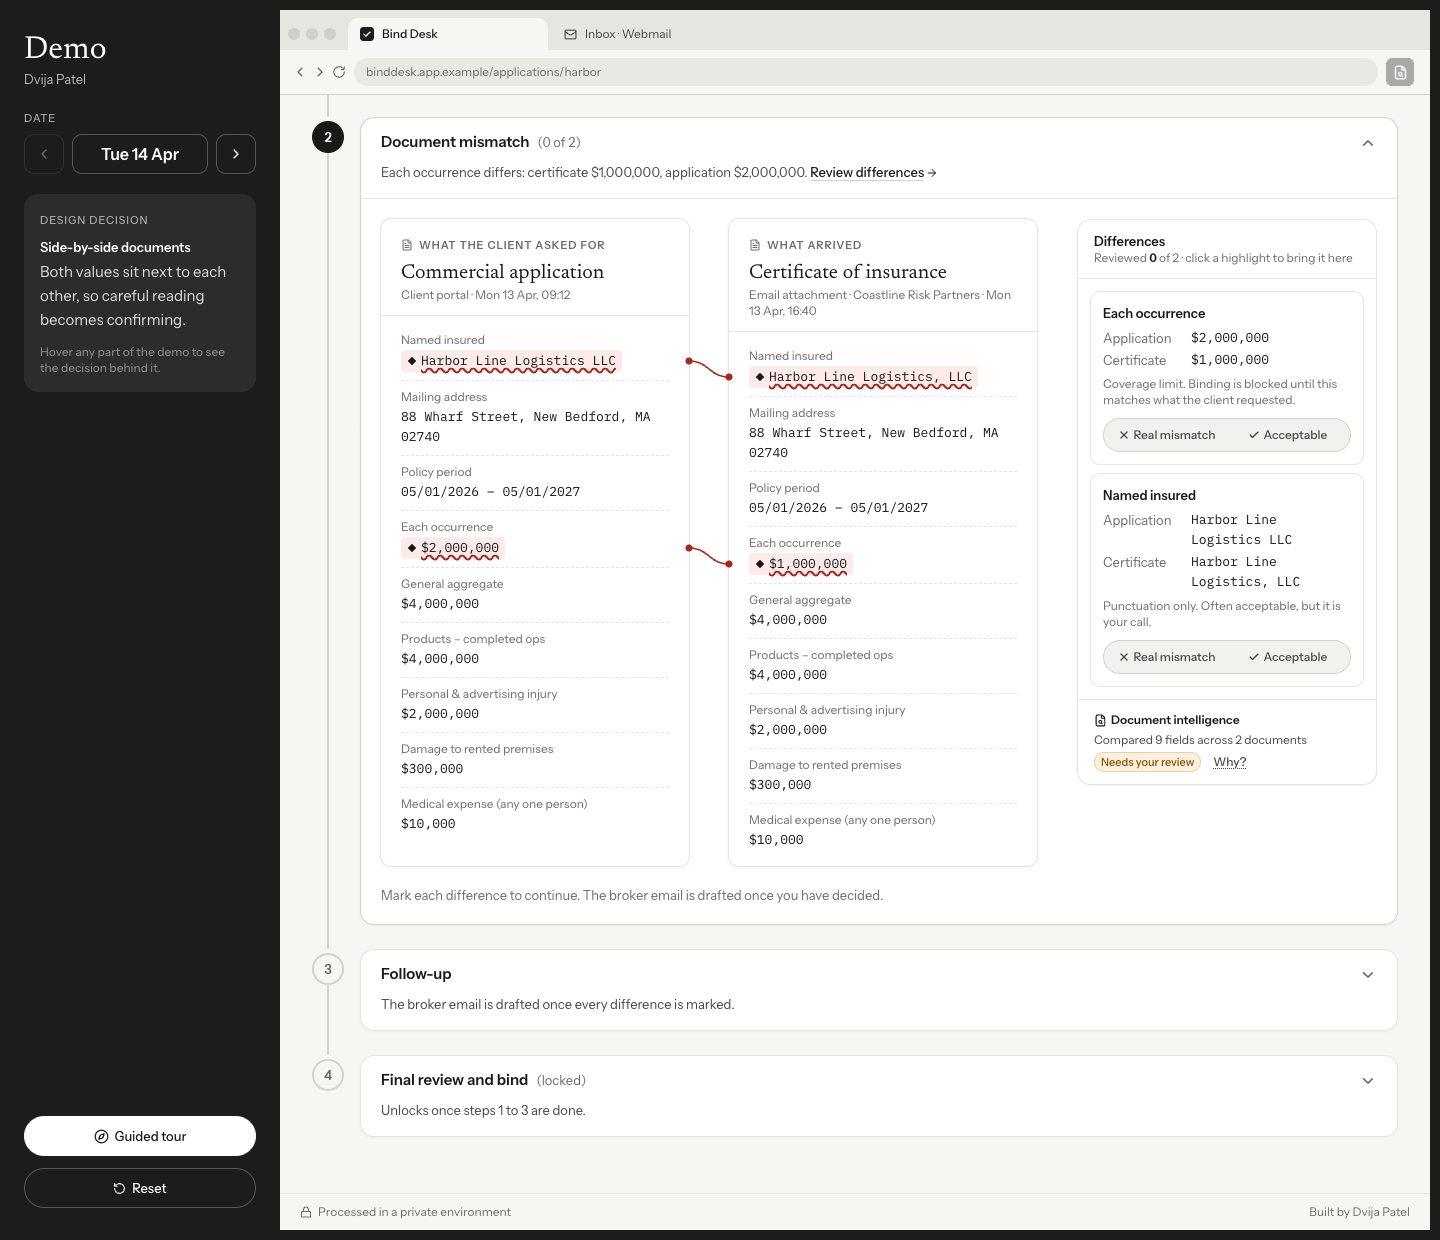
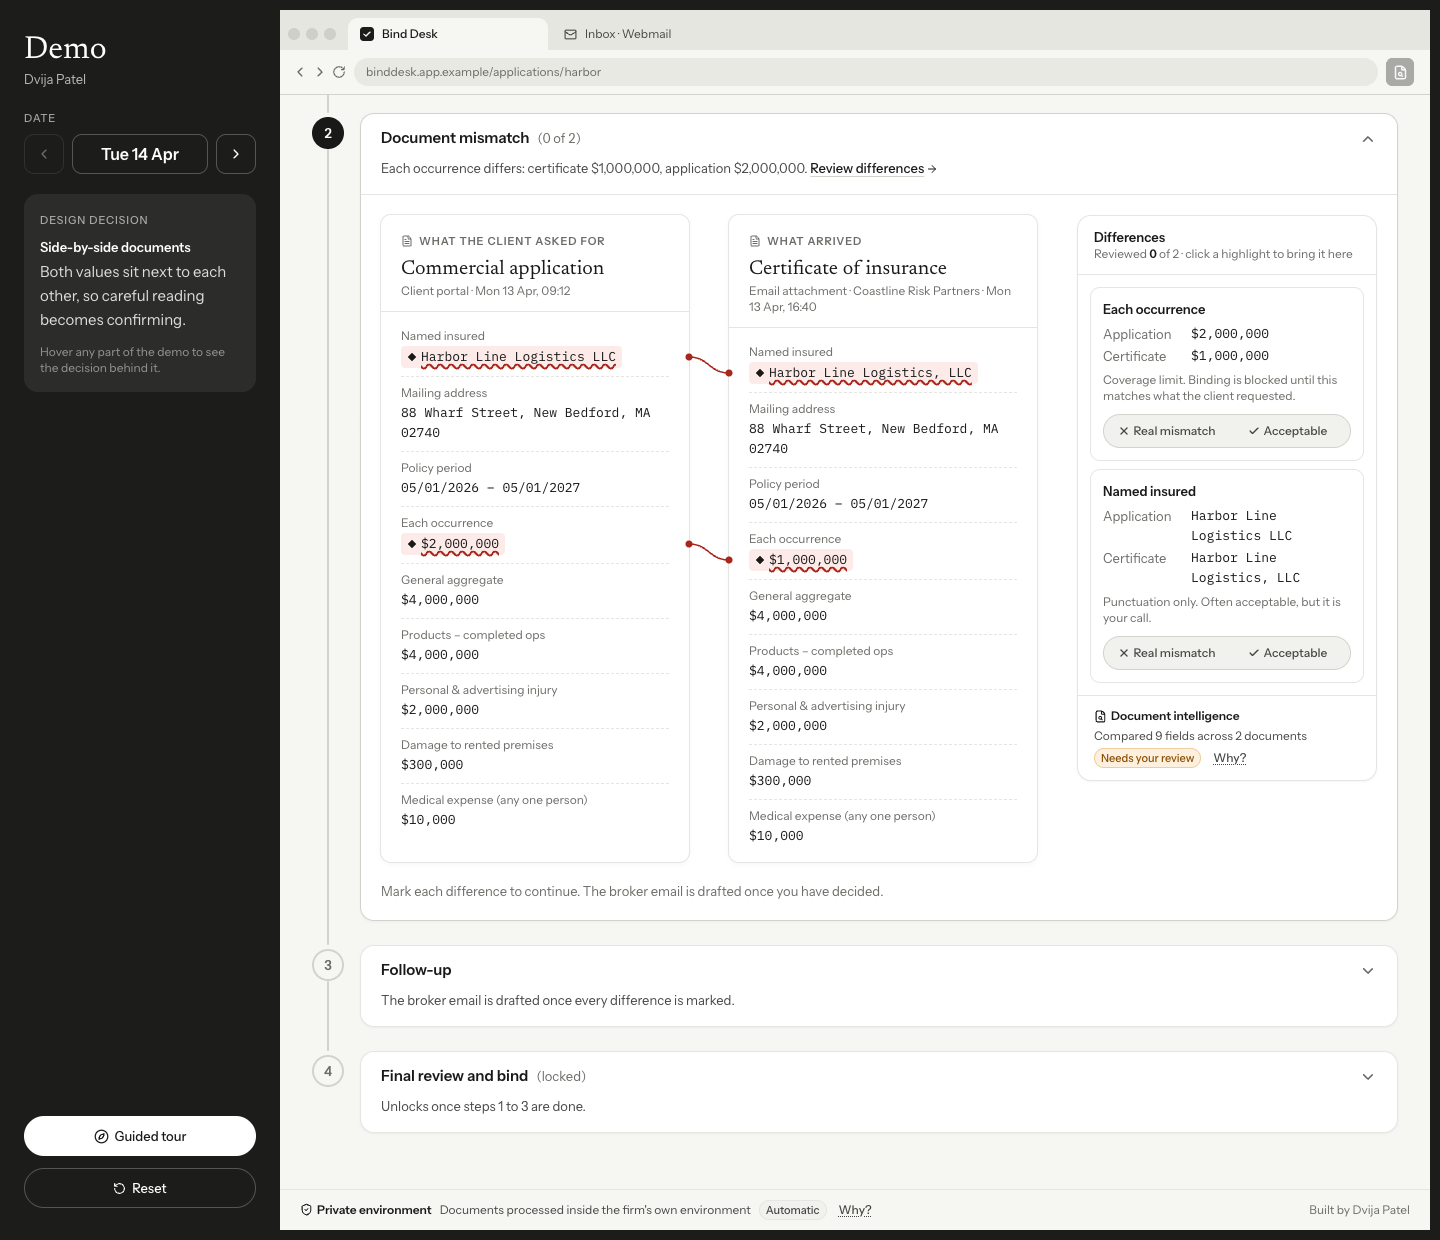
Capture card selects on click, compact capture tags, private environment tag, sent-email record

diff --git a/src/proto/screens/Capture.tsx b/src/proto/screens/Capture.tsx
@@ -175,18 +175,9 @@ function CapturePanel({ onClose }: { onClose: () => void }) {
             <p className="text-[11px] font-semibold uppercase tracking-[0.08em] text-ink-3">Bind Desk · Capture</p>
             <h2 className="mt-0.5 font-display text-[22px] leading-7">{docs.length} documents found in this inbox</h2>
             <p className="mt-1 text-sm text-ink-2">Check each match. Click a document to preview it or change its application.</p>
-            <div data-decision="ai-tag" className="mt-3">
-              <AiTag
-                variant="Document intelligence"
-                did="Named each document type and matched it to a submission"
-                review={uncertainOpen ? 'Needs your review' : 'Confirmed by you'}
-                why={{
-                  evidence: docs.map((d) => `${d.file} → ${d.type}`),
-                  confidence: docs.map((d) => `${Math.round(d.confidence * 100)}%`).join(' · '),
-                  approval: 'Matches under 80% confidence wait for you to confirm or change the application.',
-                  audit: docs.map((d) => `${d.file}: ${d.state}`),
-                }}
-              />
+            <div data-decision="ai-tag" className="mt-3 flex flex-col gap-1">
+              <AiTag variant="Document intelligence" did="Named each document type and matched it to a submission" compact />
+              <AiTag variant="Integration" did="Reads attachments in the open web inbox" compact />
             </div>
           </div>
           <button onClick={onClose} aria-label="Close panel" className="grid h-8 w-8 place-items-center rounded-full hover:bg-muted">
@@ -214,7 +205,7 @@ function CapturePanel({ onClose }: { onClose: () => void }) {
               Open Home <ArrowRight aria-hidden size={14} />
             </Button>
           </div>
-          <ProtoFooter />
+          <ProtoFooter compact />
         </div>
       </aside>
     </>
@@ -275,13 +266,17 @@ function DocRow({
     <li
       data-doc-row={doc.id}
       data-decision={uncertain ? 'low-confidence' : undefined}
-      className={`relative rounded-card border px-4 py-3.5 transition-colors ${previewing ? 'border-ink ring-1 ring-ink' : uncertain && shown ? 'border-warning-line' : 'border-line hover:border-line-strong'} ${uncertain && shown ? 'bg-[#fffaf2]' : 'bg-surface'}`}
+      onClick={(e) => {
+        if ((e.target as HTMLElement).closest('[data-picker]')) return
+        onPreview()
+      }}
+      className={`relative cursor-pointer rounded-card border px-4 py-3.5 transition-colors ${previewing ? 'border-ink ring-1 ring-ink' : uncertain && shown ? 'border-warning-line' : 'border-line hover:border-line-strong'} ${uncertain && shown ? 'bg-[#fffaf2]' : 'bg-surface'}`}
     >
       <span ref={ring} aria-hidden className="pointer-events-none absolute -inset-[3px] rounded-[12px] border-2 border-ink opacity-0" />
       <div className="flex items-start gap-3">
         <FileText aria-hidden size={18} className="mt-0.5 shrink-0 text-ink-3" />
         <div className="min-w-0 flex-1">
-          <button onClick={onPreview} aria-pressed={previewing} className="block w-full text-left" title="Preview this document">
+          <button aria-pressed={previewing} className="block w-full text-left" title="Preview this document">
             <span className="block truncate font-mono text-[13px] text-ink underline decoration-transparent underline-offset-2 hover:decoration-ink-3">{doc.file}</span>
             <span className="mt-0.5 block text-xs text-ink-3">
               <span className="font-medium text-ink-2">{doc.type}</span> · {doc.source} · {doc.from}
@@ -313,15 +308,12 @@ function DocRow({
             )}
           </div>
           {shown && !expanded && uncertain && (
-            <button
-              onClick={() => setPicking(true)}
-              className="mt-3 inline-flex h-6 items-center rounded-full border border-warning-line bg-warning-bg px-2.5 text-xs font-medium text-warning transition-colors hover:border-warning"
-            >
+            <button className="mt-3 inline-flex h-6 items-center rounded-full border border-warning-line bg-warning-bg px-2.5 text-xs font-medium text-warning transition-colors hover:border-warning">
               Needs review
             </button>
           )}
           {shown && expanded && (
-            <div className="mt-3 border-t border-line pt-3">
+            <div data-picker className="mt-3 cursor-default border-t border-line pt-3">
               <p className="text-xs text-ink-2">
                 {uncertain
                   ? `Only ${Math.round(doc.confidence * 100)}% sure. "HL" could be Harborview Freight Co. or Harbor Line Logistics.`

diff --git a/src/proto/screens/AppDetail.tsx b/src/proto/screens/AppDetail.tsx
@@ -918,6 +918,42 @@ function ContactChooser({ sub }: { sub: Submission }) {
   )
 }
 
+/** What already went to the broker, with the agent tag now confirmed. */
+function SentRecord({ sub, text }: { sub: Submission; text: string }) {
+  const [open, setOpen] = useState(false)
+  const subject = text.split('\n').find((l) => l.startsWith('Subject: '))?.replace('Subject: ', '')
+  const isMismatch = sub.askedFor?.startsWith('confirmation')
+  return (
+    <div className="rounded-card border border-line bg-surface">
+      <div className="flex flex-wrap items-start justify-between gap-3 px-4 py-3">
+        <div className="min-w-0">
+          <p className="flex items-center gap-2 text-sm font-semibold">
+            <Mail aria-hidden size={14} /> Email sent {fmtDay(sub.waitingSince ?? 0)}
+          </p>
+          <p className="mt-0.5 truncate text-sm text-ink-2">{subject}</p>
+        </div>
+        <button onClick={() => setOpen((o) => !o)} aria-expanded={open} className="inline-flex items-center gap-1 text-sm font-medium underline decoration-line-strong underline-offset-[3px] hover:decoration-ink">
+          {open ? 'Hide email' : 'Show email'}
+          <ChevronDown aria-hidden size={14} className={`transition-transform duration-200 ${open ? 'rotate-180' : ''}`} />
+        </button>
+      </div>
+      {open && <pre className="mx-4 mb-3 whitespace-pre-wrap rounded-card bg-canvas p-3 font-sans text-sm leading-6 text-ink-2">{text}</pre>}
+      <div data-decision="ai-tag" className="border-t border-line px-4 py-2.5">
+        <AiTag
+          variant="Agent"
+          did={isMismatch ? 'Drafted the broker email from your decisions' : 'Drafted the request for the missing document'}
+          review="Confirmed by you"
+          why={{
+            evidence: [`Asked for: ${sub.askedFor}`],
+            approval: 'You reviewed the draft and pressed Send.',
+            audit: ['Draft generated', `Sent by you ${fmtDay(sub.waitingSince ?? 0)}`],
+          }}
+        />
+      </div>
+    </div>
+  )
+}
+
 function CallPanel({ sub, onLog }: { sub: Submission; onLog: () => void }) {
   return (
     <div className="flex flex-wrap items-center justify-between gap-4 rounded-panel border border-line bg-surface px-5 py-4">
@@ -1042,6 +1078,7 @@ function FollowUpSection({ sub }: { sub: Submission }) {
               <span className="font-semibold text-ink">You asked for</span> {sub.askedFor}.
             </p>
           )}
+          {drafts[sub.id] && <SentRecord sub={sub} text={drafts[sub.id]} />}
         </>
       )}
 

diff --git a/src/proto/components/AiTag.tsx b/src/proto/components/AiTag.tsx
@@ -29,7 +29,24 @@ export interface WhyInfo {
  * The reusable AI capability tag. Only placed where AI changed what the user
  * sees; anything affecting a decision carries a review state.
  */
-export function AiTag({ variant, did, review, why, align = 'left' }: { variant: AiVariant; did: string; review: ReviewState; why: WhyInfo; align?: 'left' | 'right' }) {
+export function AiTag({
+  variant,
+  did,
+  review,
+  why,
+  align = 'left',
+  placement = 'down',
+  compact = false,
+}: {
+  variant: AiVariant
+  did: string
+  review?: ReviewState
+  why?: WhyInfo
+  align?: 'left' | 'right'
+  placement?: 'down' | 'up'
+  /** Name and one line only: no review state, no "Why?" */
+  compact?: boolean
+}) {
   const [open, setOpen] = useState(false)
   const id = useId()
   const wrap = useRef<HTMLDivElement>(null)
@@ -73,9 +90,12 @@ export function AiTag({ variant, did, review, why, align = 'left' }: { variant: 
         {variant}
       </span>
       <span className="text-ink-2">{did}</span>
-      <span ref={pillRef} className={`inline-flex h-5 items-center rounded-full border px-1.5 text-[11px] font-medium ${REVIEW_STYLE[review]}`}>
-        {review}
-      </span>
+      {!compact && review && (
+        <span ref={pillRef} className={`inline-flex h-5 items-center rounded-full border px-1.5 text-[11px] font-medium ${REVIEW_STYLE[review]}`}>
+          {review}
+        </span>
+      )}
+      {!compact && why && (
       <button
         ref={btn}
         type="button"
@@ -86,13 +106,14 @@ export function AiTag({ variant, did, review, why, align = 'left' }: { variant: 
       >
         Why?
       </button>
-      {open && (
+      )}
+      {open && why && (
         <div
           ref={pop}
           id={id}
           role="dialog"
           aria-label={`Why: ${variant}`}
-          className={`absolute top-full z-40 mt-2 w-80 rounded-card border border-line bg-surface p-3 text-xs shadow-pop ${align === 'right' ? 'right-0' : 'left-0'}`}
+          className={`absolute z-40 w-80 ${placement === 'up' ? 'bottom-full mb-2' : 'top-full mt-2'} rounded-card border border-line bg-surface p-3 text-xs shadow-pop ${align === 'right' ? 'right-0' : 'left-0'}`}
         >
           <dl className="space-y-2.5">
             <div>

diff --git a/src/proto/components/ui.tsx b/src/proto/components/ui.tsx
@@ -1,5 +1,6 @@
 import { forwardRef, useEffect, useLayoutEffect, useRef, useState, type ButtonHTMLAttributes, type ReactNode } from 'react'
-import { ChevronDown, Lock } from 'lucide-react'
+import { ChevronDown } from 'lucide-react'
+import { AiTag } from './AiTag'
 import { tweenNumber } from '../motion'
 
 type Variant = 'primary' | 'secondary' | 'ghost' | 'quiet'
@@ -76,12 +77,22 @@ export function WhyDesign({ title = 'Why this design', evidence, children }: { t
   )
 }
 
-export function ProtoFooter() {
+export function ProtoFooter({ compact = false }: { compact?: boolean }) {
   return (
     <footer className="flex flex-wrap items-center justify-between gap-2 border-t border-line px-5 py-2.5 text-xs text-ink-3">
-      <span className="inline-flex items-center gap-1.5">
-        <Lock aria-hidden size={12} />
-        Processed in a private environment
+      <span data-decision="ai-tag">
+        <AiTag
+          variant="Private environment"
+          did={compact ? 'Processed inside the firm' : "Documents processed inside the firm's own environment"}
+          compact={compact}
+          review="Automatic"
+          placement="up"
+          why={{
+            evidence: ['Deployment chosen with the client', 'Documents and drafts stay inside that environment'],
+            approval: "Set by the firm's IT team, not per application.",
+            audit: ['No compliance certification is claimed in this prototype'],
+          }}
+        />
       </span>
       <a href="https://pateldvija20.vercel.app" target="_blank" rel="noreferrer" className="hover:text-ink hover:underline">
         Built by Dvija Patel
